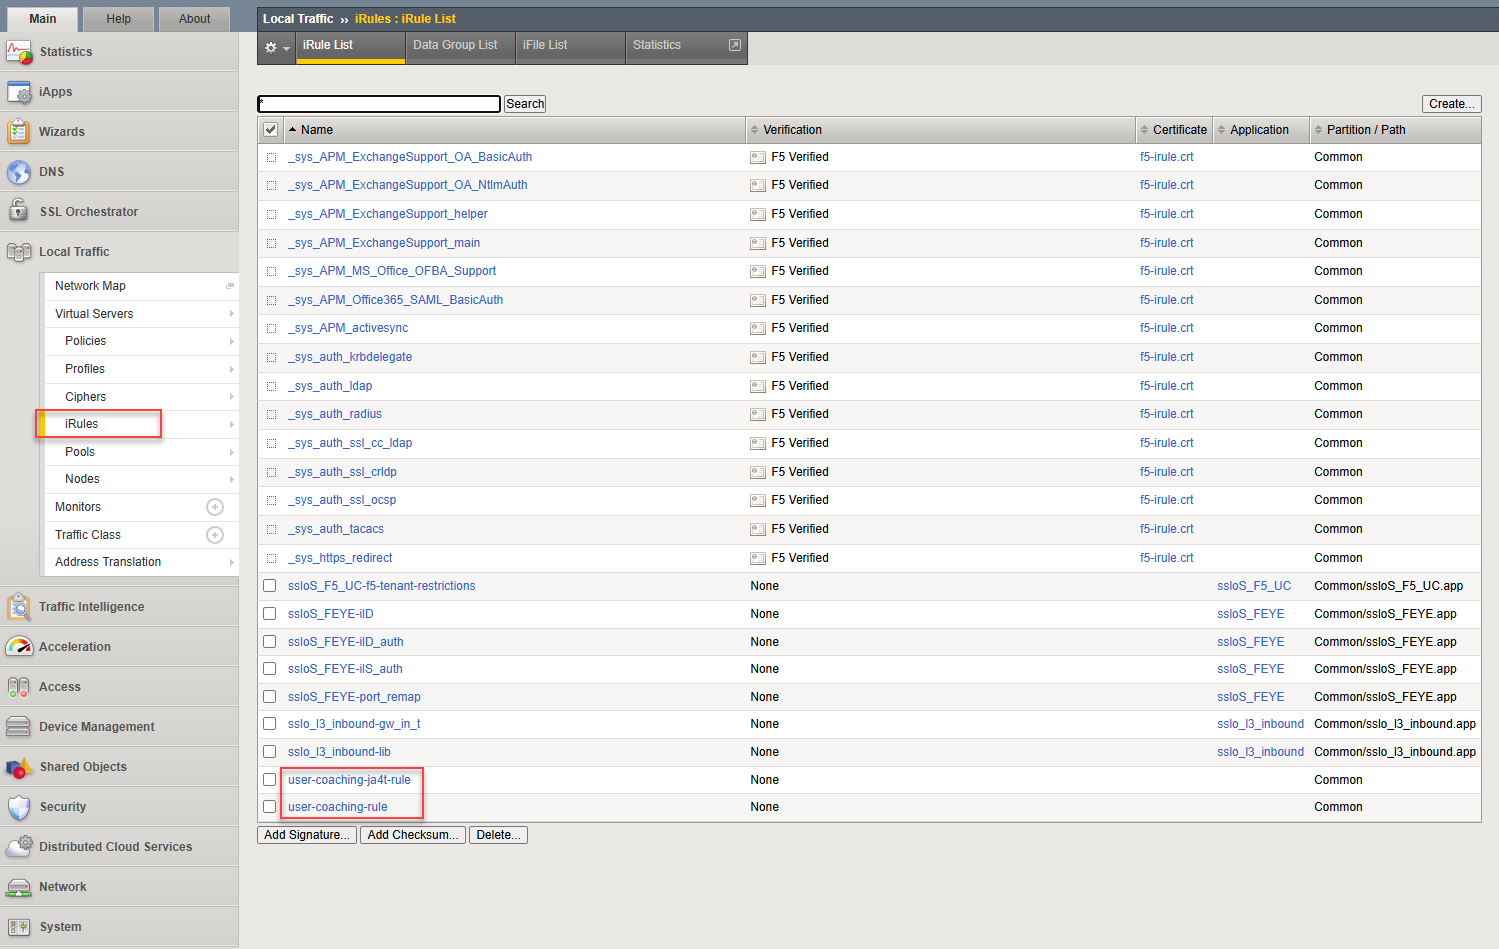
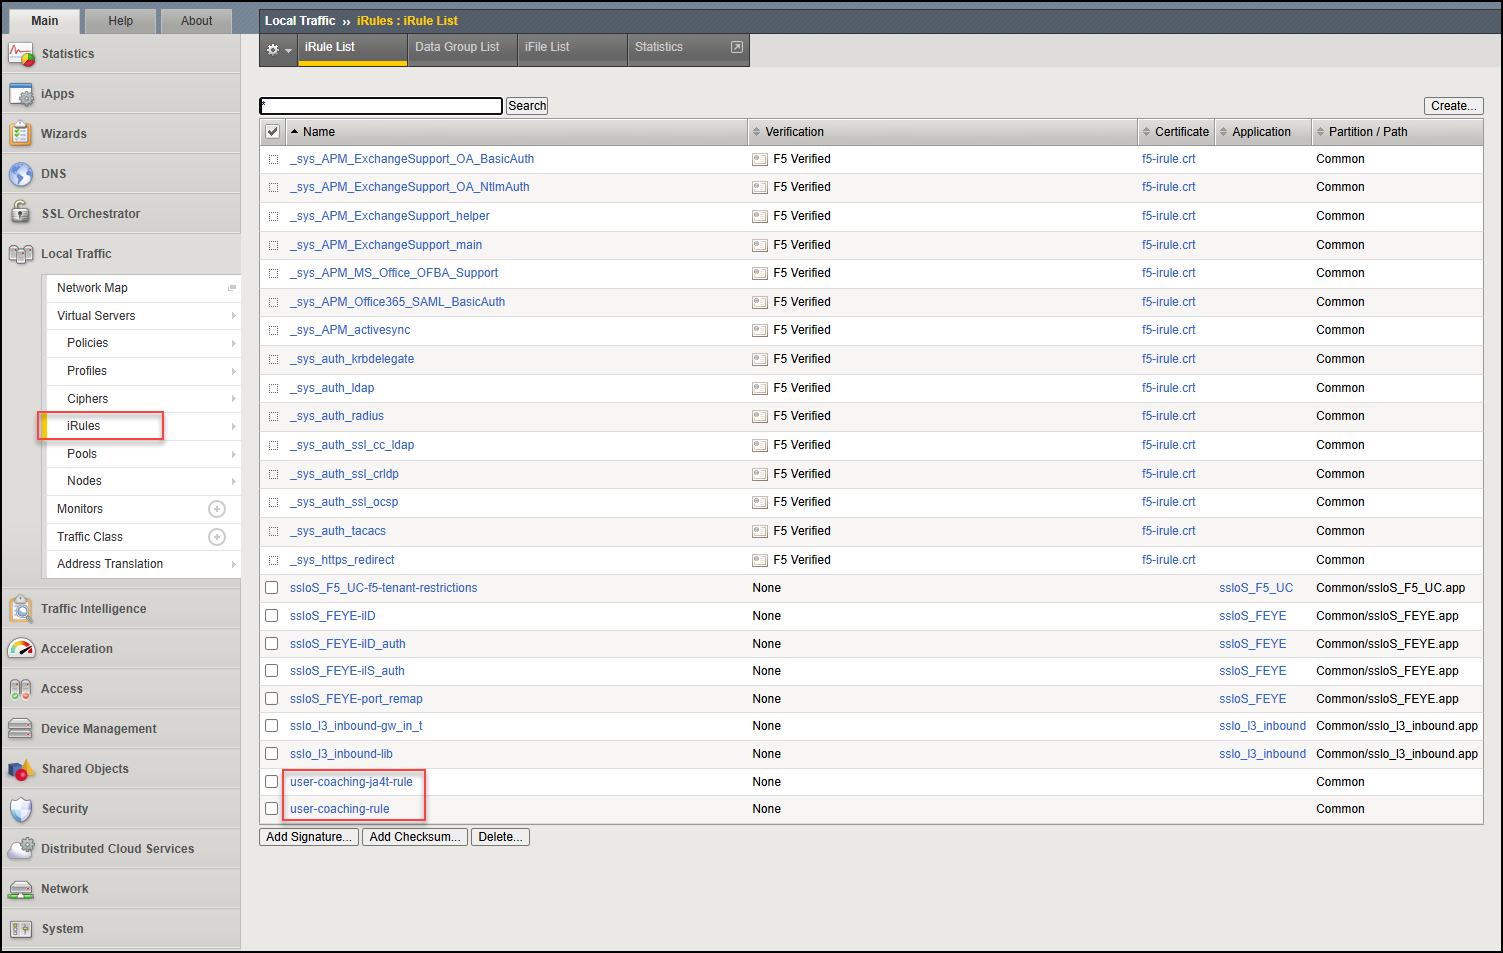
updates for clarity

Changed region(s): [[0.0, 0.0, 1.0, 1.0], [0.982, 0.9779, 1.0, 1.0]]

diff --git a/Module-2-Outbound-proxy-with-user-coaching/lab2.rst b/Module-2-Outbound-proxy-with-user-coaching/lab2.rst
@@ -87,7 +87,7 @@ Verify Object Creation
 #. Navigate to **Local Traffic > iRules** and verify that the following iRules are present.
 
    - **user-coaching-ja4t-rule**
-   - *user-coaching-rule*
+   - **user-coaching-rule**
 
    .. image:: images/uc-install-verify-1.png
       :align: left
